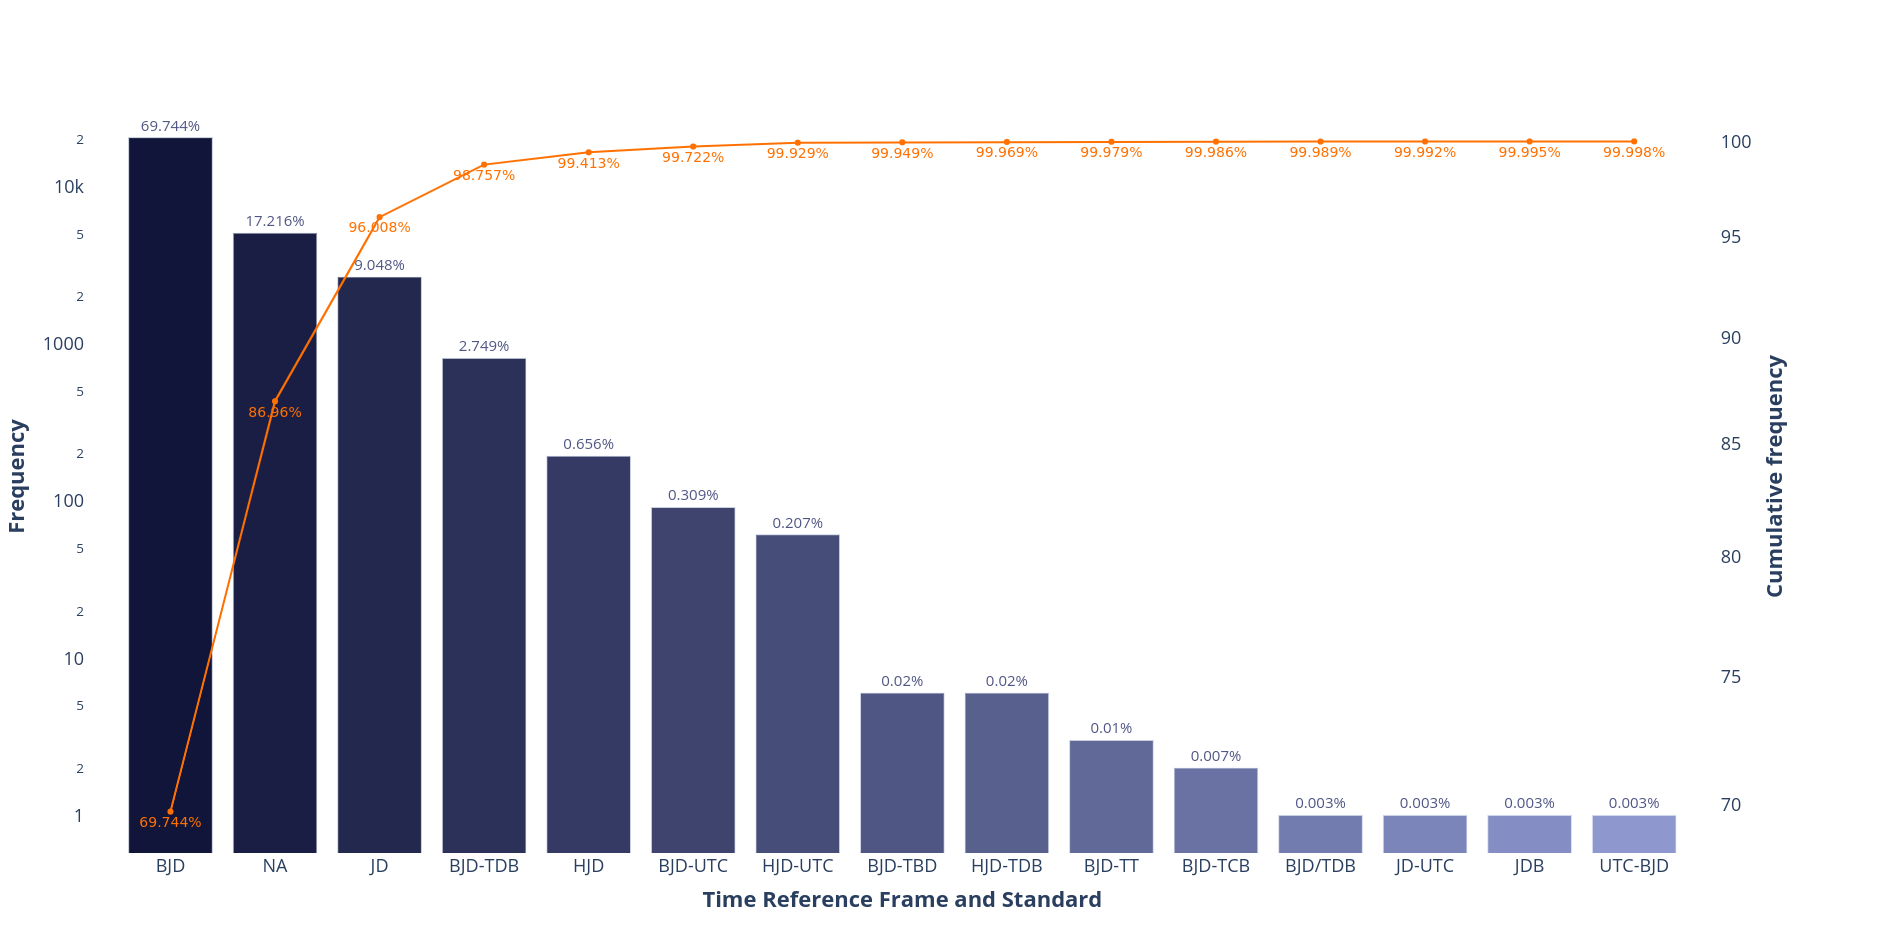
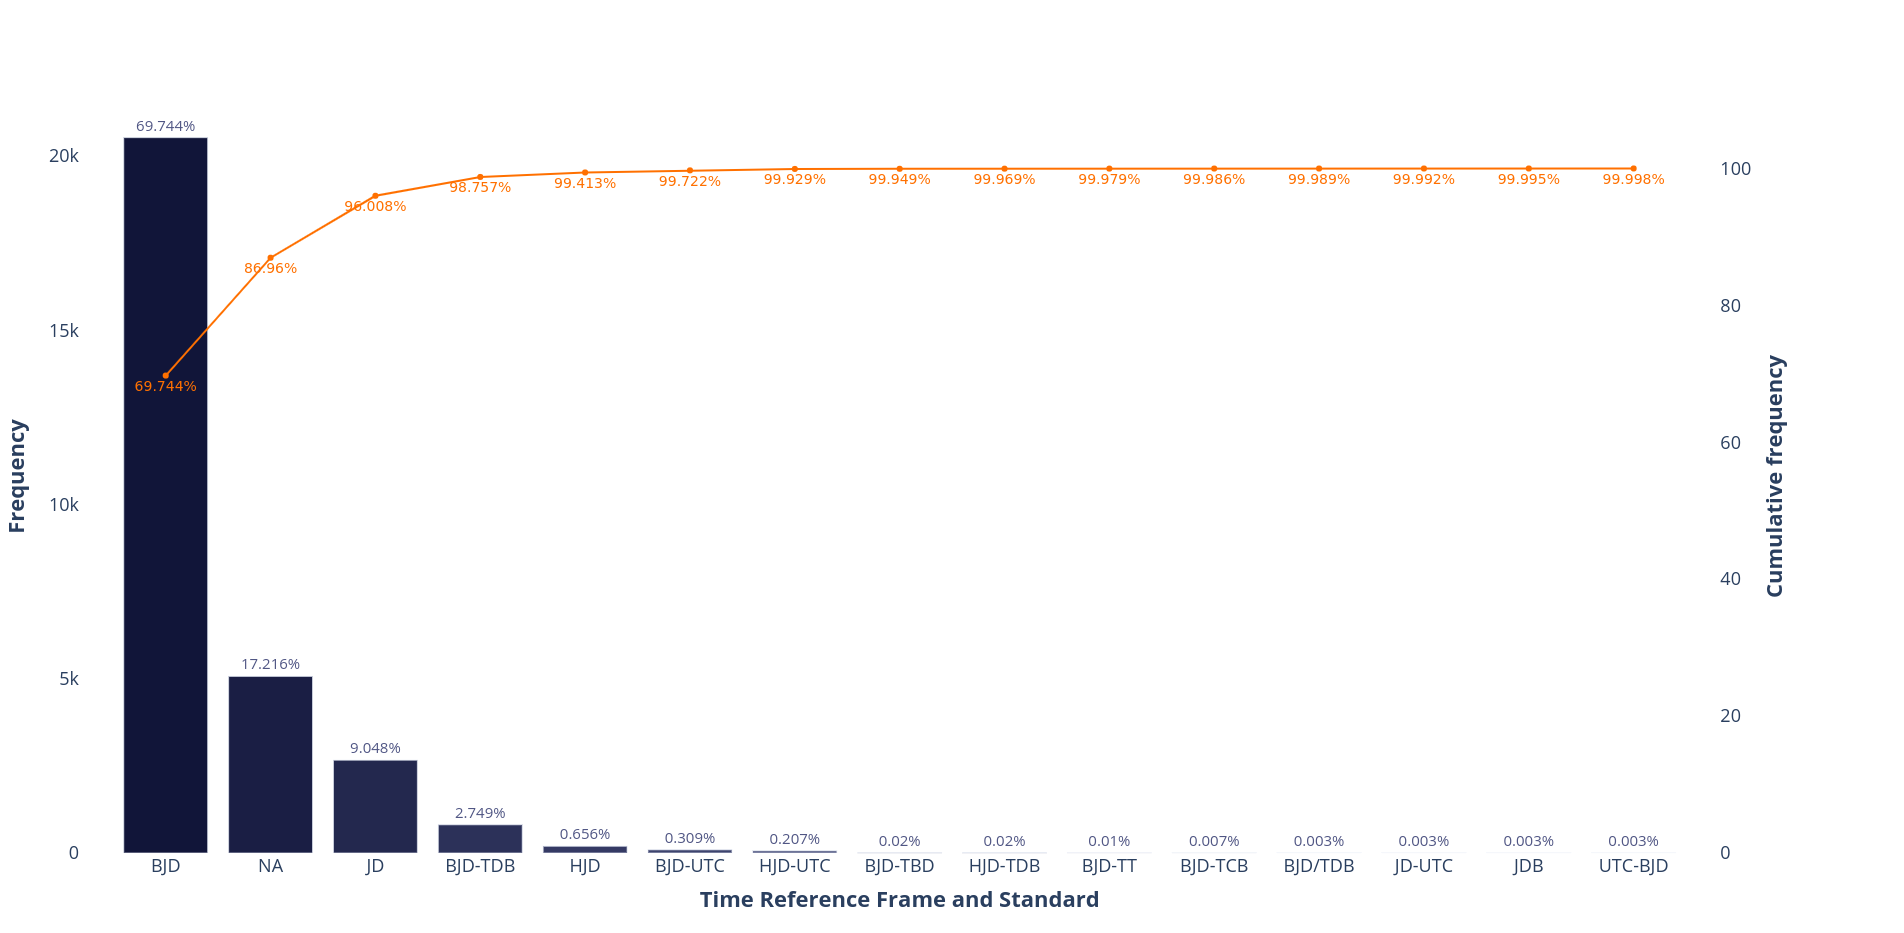
fix barplot pareto

diff --git a/Plot_types/Barplot_Pareto/Barplot_Pareto_Python_matplotlib.py b/Plot_types/Barplot_Pareto/Barplot_Pareto_Python_matplotlib.py
@@ -59,7 +59,7 @@ for p in ax.patches:
     x, y = p.get_xy()
     ax.annotate(
         text = f'{df_plot["freq_rel_char"][ind]}',
-        xy = (x + width/2, y + height*1.03),
+        xy = (x + width/2, y + height*1.5),
         ha = "center",
         color = my_palette[n_levels//8],
         fontsize = 15
@@ -79,27 +79,40 @@ _ = ax2.scatter(
 for i, j in zip(df_plot["level"], df_plot["freq_rel_cum"]):
     ax2.annotate(
         text = str(j) + "%",
-        xy = (i, j - 1),
+        xy = (i, j - 4),
         ha = "center",
         color = "#FF7000",
         fontsize = 12
     )
-_ = ax.set_yscale("log")
-_ = ax.set_xlabel(cat_var_name,
-                  fontsize = 16)
-_ = ax.set_ylabel("Frequency",
-                  fontsize = 16)
-_ = ax.tick_params(axis = "x", 
-                   which = "major", 
-                   labelsize = 16,
-                   rotation = 20)
-_ = ax.tick_params(axis = "y", 
-                   which = "major", 
-                   labelsize = 16)
-_ = ax2.set_ylabel("Cumulative frequency (%)",
-                   fontsize = 16)
-_ = ax2.tick_params(axis = "y", 
-                    which = "major", 
-                    labelsize = 16)
+_ = ax.set_yscale("linear")
+_ = ax.set_xlabel(
+    cat_var_name,
+    fontsize = 16
+)
+_ = ax.set_ylabel(
+    "Frequency",
+    fontsize = 16
+)
+_ = ax.tick_params(
+    axis = "x", 
+    which = "major", 
+    labelsize = 16,
+    rotation = 20
+)
+_ = ax.tick_params(
+    axis = "y", 
+    which = "major", 
+    labelsize = 16
+)
+_ = ax2.set_ylabel(
+    "Cumulative frequency (%)",
+    fontsize = 16
+)
+_ = ax2.tick_params(
+    axis = "y", 
+    which = "major", 
+    labelsize = 16
+)
+_ = ax2.set_ylim([0, 110])
 
 

diff --git a/Plot_types/Barplot_Pareto/Barplot_Pareto_Python_seaborn.py b/Plot_types/Barplot_Pareto/Barplot_Pareto_Python_seaborn.py
@@ -82,28 +82,42 @@ _ = ax2.scatter(
 for i, j in zip(df_plot["level"], df_plot["freq_rel_cum"]):
     ax2.annotate(
         text = str(j) + "%",
-        xy = (i, j - 1),
+        xy = (i, j - 4),
         ha = "center",
         color = "#FF7000",
         fontsize = 12
     )
-_ = ax.set_yscale("log")
-_ = ax.set_xlabel(cat_var_name,
-                  fontsize = 16)
-_ = ax.set_ylabel("Frequency",
-                  fontsize = 16)
-_ = ax.tick_params(axis = "x", 
-                   which = "major", 
-                   labelsize = 16,
-                   rotation = 20)
-_ = ax.tick_params(axis = "y", 
-                   which = "major", 
-                   labelsize = 16)
-_ = ax2.set_ylabel("Cumulative frequency (%)",
-                   fontsize = 16)
-_ = ax2.tick_params(axis = "y", 
-                    which = "major", 
-                    labelsize = 16)
-plt.legend([],[], frameon = False)
+_ = ax.set_yscale("linear")
+_ = ax.set_xlabel(
+    cat_var_name,
+    fontsize = 16
+)
+_ = ax.set_ylabel(
+    "Frequency",
+    fontsize = 16
+)
+_ = ax.tick_params(
+    axis = "x", 
+    which = "major", 
+    labelsize = 16,
+    rotation = 20
+)
+_ = ax.tick_params(
+    axis = "y", 
+    which = "major", 
+    labelsize = 16
+)
+_ = ax2.set_ylabel(
+    "Cumulative frequency (%)",
+    fontsize = 16
+)
+_ = ax2.tick_params(
+    axis = "y", 
+    which = "major", 
+    labelsize = 16
+)
+_ = ax2.set_ylim([0, 110])
+plt.legend([], [], 
+           frameon = False)
 
 

diff --git a/Plot_types/Barplot_Pareto/Barplot_Pareto_Python_plotly.py b/Plot_types/Barplot_Pareto/Barplot_Pareto_Python_plotly.py
@@ -61,7 +61,7 @@ fig.add_trace(
     ),
     secondary_y = False
 )
-fig.update_yaxes(type = "log")
+fig.update_yaxes(type = "linear")
 fig.update_traces(
     textposition = "outside",
     textfont_color = my_palette[n_levels//2],
@@ -86,6 +86,11 @@ fig.add_trace(
     ),
     secondary_y = True
 )
+fig.update_yaxes(
+    title_text = "<b>Cumulative frequency</b>", 
+    secondary_y = True,
+    range = [0, 110]
+)
 fig.update_layout(
     xaxis_title = "<b>" + cat_var_name + "</b>" ,
     yaxis_title = "<b>Frequency</b>",
@@ -99,10 +104,6 @@ fig.update_layout(
         font_size = 18,
         font_family = "Rockwell"
     )
-)
-fig.update_yaxes(
-    title_text = "<b>Cumulative frequency</b>", 
-    secondary_y = True
 )
 fig.show()
 
